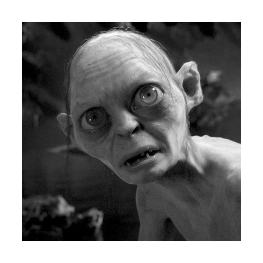
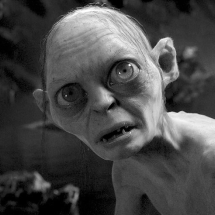
Mise à jours de sections

diff --git a/index.html b/index.html
@@ -48,8 +48,10 @@
             <div id="carouselExampleIndicators" class="carousel slide" data-ride="carousel">
                 <ol class="carousel-indicators">
                     <li data-target="#carouselExampleIndicators" data-slide-to="0" class="active"></li>
-                    <!-- <li data-target="#carouselExampleIndicators" data-slide-to="1"></li>
-                    <li data-target="#carouselExampleIndicators" data-slide-to="2"></li> -->
+                    <!-- 
+                    <li data-target="#carouselExampleIndicators" data-slide-to="1"></li>
+                    <li data-target="#carouselExampleIndicators" data-slide-to="2"></li>
+                    -->
                 </ol>
                 <div class="carousel-inner">
                     <div class="carousel-item active">
@@ -59,7 +61,8 @@
                             <p>Please help him to find his ring -d.v.</p>
                         </div>
                     </div>
-                    <!-- <div class="carousel-item">
+                    <!-- 
+                    <div class="carousel-item">
                         <img class="d-block w-100" src="img/AiMr7BuljIvpPR04Vd9bB3DdspBhySnQ9hUkPE6q.jpg" alt="Second slide">
                         <div class="carousel-caption d-none d-md-block">
                             <h5>Second slide</h5>
@@ -72,7 +75,8 @@
                             <h5>Third slide</h5>
                             <p>Description third slide...</p>
                         </div>
-                    </div> -->
+                    </div>
+                    -->
                 </div>
                 <a class="carousel-control-prev" href="#carouselExampleIndicators" role="button" data-slide="prev">
                     <span class="carousel-control-prev-icon" aria-hidden="true"></span>
@@ -86,6 +90,7 @@
         </div>
     </header>
     <main>
+        <!-- Section Fellows -->
         <div id="fellows" class="py-3">
             <div class="container">
                 <div class="row pb-3">
@@ -138,7 +143,7 @@
                             <img class="card-img-top" src="img/gimli.png" alt="Card image cap">
                             <div class="card-body">
                                 <h5 class="card-title">Gimly</h5>
-                                <p class="card-text"><span class="d-block">Reward</span> <span class="orange">1000</span> golden coins</p>
+                                <p class="card-text"><span class="orange">dead</span></p>
                             </div>
                             <div class="card-footer">
                                 a dwarf, which a beard and an axe...
@@ -148,8 +153,9 @@
                 </div>
             </div>
         </div>
+        <!-- Section Reward  -->
         <div id="reward">
-            <div class="container">
+            <div class="container pb-3">
                 <div class="row py-3">
                     <div class="col clearfix">
                         <article>
@@ -163,7 +169,7 @@
                                     </p>
                                 </div>
                                 <div class="col-12 col-md-3 col-lg-2 order-1 order-md-2 my-3">
-                                    <img class="rounded img-fluid" src="img/pexels-photo-762020.jpeg" alt="picture of Reward section">
+                                    <img class="rounded-circle img-fluid" src="img/coin_sauron.png" alt="picture of Reward section">
                                 </div>
                             </div>
                         </article>
@@ -174,6 +180,7 @@
                 </div>
             </div>
         </div>
+        <!-- Section Hunters -->
         <div id="hunters">
             <div class="container">
                 <div class="row py-3">
@@ -182,7 +189,7 @@
                         <div class="row">
                             <div class="col-12 col-md-6 my-4">
                                 <div class="media">
-                                    <img class="mr-3 rounded" style="width:70px;" src="img/0wu6KXTcPikHOLFOg1OnvEn2FKxXXcNkzkUSTSEr.jpeg" alt="Generic placeholder image">
+                                    <img class="mr-3 rounded" style="width:70px;" src="img/hunter1.png" alt="Generic placeholder image">
                                     <div class="media-body">
                                         <h5 class="my-0 font-weight-bold h6">ElvesKiller22</h5>
                                         <p class="mb-1">2 capture - <a href="">Profile</a></p>
@@ -194,7 +201,7 @@
                             </div>
                             <div class="col-12 col-md-6 my-4">
                                 <div class="media">
-                                    <img class="mr-3 rounded" style="width:70px;" src="img/0wu6KXTcPikHOLFOg1OnvEn2FKxXXcNkzkUSTSEr.jpeg" alt="Generic placeholder image">
+                                    <img class="mr-3 rounded" style="width:70px;" src="img/hunter2.png" alt="Generic placeholder image">
                                     <div class="media-body">
                                         <h5 class="my-0 font-weight-bold h6">Goblin45</h5>
                                         <p class="mb-1">1 capture - <a href="">Profile</a></p>
@@ -209,17 +216,18 @@
                 </div>
             </div>
         </div>
+        <!-- Section Ring -->
         <div id="ring">
             <div class="container">
-                <div class="row my-3">
+                <div class="row py-3">
                     <div class="col">
                         <h2 class="h4 my-3 title">About the ring</h2>
                         <div class="card my-3">
                             <div class="card-header font-weight-bold">Ring capabilities</div>
                             <div class="card-body">
                                 <p class="card-text">What can our master Sauron do with the ring ?</p>
-                                <table class="table table-bordered">
-                                    <thead class="bg-dark text-light">
+                                <table class="table">
+                                    <thead>
                                         <tr>
                                             <th scope="col" class="w-50">Feature</th>
                                             <th scope="col" class="w-50">Description</th>
@@ -245,7 +253,7 @@
                         <div class="card my-3">
                             <div class="card-header font-weight-bold">Why the ring is awesome ?</div>
                             <div class="card-body">
-                                <img style="width:110px;" class="float-right w-25 rounded-circle ml-5" src="img/0wu6KXTcPikHOLFOg1OnvEn2FKxXXcNkzkUSTSEr.jpeg" alt="">
+                                <img class="float-right rounded-circle ml-5" src="img/gollum.png" alt="">
                                 <h5 class="h6 card-title">My preciooooooussssss! Hrk Hrk, we want your preciooooooussssss!!</h5>
                                 <p class="card-text text-right text-muted">Gollum</p>
                             </div>
@@ -254,30 +262,33 @@
                 </div>
             </div>
         </div>
+        <!-- Section Army -->
         <div id="army">
-            <div class="container">
+            <div class="container pb-3">
                 <div class="row py-3">
                     <div class="col">
                         <article>
                             <h2 class="h4 my-3 title">Join Mordor Army, we need you !</h2>
                             <div class="row">
-                                <div class="col-12 col-md-3 col-lg-2 my-3">
-                                    <img class="float-left rounded img-fluid" src="img/pexels-photo-762020.jpeg" alt="picture of Army section">
-                                </div>
-                                <div class="col-12 col-md-9 col-lg-10 my-3">
+                                <div class="col-12 col-md-9 col-lg-8 my-3">
                                     <p class="text-justify">
                                         Lorem ipsum dolor sit, amet consectetur adipisicing elit. Eligendi corrupti harum suscipit a unde accusamus et aliquid voluptate culpa porro totam, atque voluptates doloremque saepe recusandae in iste? Corrupti, voluptates. Lorem ipsum dolor sit amet consectetur adipisicing elit. Ex fuga aliquam atque beatae eveniet aspernatur et voluptatibus voluptate sed vero est, aliquid esse provident nobis exercitationem? Ut dolores sunt iste.
                                     </p>
                                 </div>
+                                <div class="col-12 col-md-3 col-lg-4 my-3">
+                                    <img class="float-left img-fluid" src="img/army.png" alt="picture of Army section">
+                                </div>
                             </div>
                         </article>
                         <form class="text-center">
-                            <button type="button" class="btn btn-primary">More info on SauronRulesThemAll.com</button>
+                            <p class="orange">More info on</p>
+                            <button type="button" class="btn btn-primary">SauronRulesThemAll.com</button>
                         </form>
                     </div>
                 </div>
             </div>
         </div>
+        <!-- Section Contact -->
         <div id="contact">
             <div class="container">
                 <div class="row py-3">
@@ -311,7 +322,7 @@
                     </div>
                 </div>
             </div>
-        </div>
+        </div> 
     </main>
     <footer>
         <div class="container">

diff --git a/css/style.css b/css/style.css
@@ -26,6 +26,21 @@ h1, h2, h2.h4, h3, h4, h5, h6,
 }
 .title:before { margin-right: 9px; }
 .title:after { margin-left: 9px; }
+/* button */
+.btn.btn-primary {
+    background-color: #202022;
+    color: #fe661d;
+    border: none;
+    -webkit-border-radius: 0;
+    -moz-border-radius: 0;
+    -ms-border-radius: 0;
+    border-radius: 0;
+    box-shadow: 0px 3px 3px #202022;
+}
+#reward .btn.btn-primary, #contact .btn.btn-primary {
+    background-color: #fff;
+    box-shadow: 3px 3px 3px #444;
+}
 /* HEADER */
 .navbar-brand img { width: 210px; }
 .navbar-light .navbar-nav .nav-link { 
@@ -65,11 +80,8 @@ h1, h2, h2.h4, h3, h4, h5, h6,
 #fellows .card {
     border: 3px solid #000;
     background-color: #000;
-}
-#fellows .card {
     text-align: center;
     cursor: pointer;
-    border: 3px solid #000;
 }
 #fellows .card-body {
     position: absolute;
@@ -81,27 +93,27 @@ h1, h2, h2.h4, h3, h4, h5, h6,
     width: 90%;
     padding: .5em;
     bottom:1em;
+    font-size: 2em;
     line-height: 1.2;
     background-color: #fff;
     -webkit-border-radius: 3px;
     -moz-border-radius: 3px;
     border-radius: 3px;
-    opacity: .81;
+    opacity: .8;
 }
-#fellows .card h5 {
-    font-size: 1.5em;
-    transition: all ease .5s;
+#fellows .card img { opacity: .5; }
+#fellows .card h5 { 
+    font-size: 2.5em;
+    font-family: 'Party Business';
+    top: 5.2em;
 }
-#fellows .card img {
-    opacity: .5;
-    transition: all ease .5s;
+#fellows .card.dead:hover img { opacity: .5; }
+#fellows .card.dead:hover h5 { top: 5.2em; }
+#fellows .card.dead p {
+    background-color: transparent;
+    font-size: 2.5em;
 }
-#fellows .card p { 
-    font-size: 2em;
-}
-#fellows .card p span.orange { color: #fe661d; }
-#fellows .card h5, #fellows .card.dead:hover h5 { top: 8em; }
-#fellows .card.dead .card-text { display: none; }
+#fellows .card.dead:hover p { z-index: 1; }
 #fellows .card.dead h5, #fellows .card.dead:hover h5 {
     color: #fff;
     -webkit-text-decoration-line: line-through;
@@ -112,29 +124,47 @@ h1, h2, h2.h4, h3, h4, h5, h6,
     -moz-text-decoration-color: #fe661d;
     -ms-text-decoration-color: #fe661d;
     text-decoration-color: #fe661d;
-    font-size: 1.5em;
+    font-size: 2.5em;
 }
-#fellows .card.dead:hover img { opacity: .5; }
 #fellows .card-footer {
     background-color: #000;
     -webkit-border-radius: 0;
     -moz-border-radius: 0;
     border-radius: 0;
+    font-size: 1.6em;
 }
-/* Section REWARD */
-
+/* Section RING */
+#ring .card { 
+    border-top: 0;
+    border-right: 0;
+    border-bottom: 3px solid #fe661d;
+    border-left: 0;
+    -webkit-border-radius: .25em;
+    -webkit-border-bottom-right-radius: 0;
+    -webkit-border-bottom-left-radius: 0;
+    -moz-border-radius: .25em;
+    -moz-border-radius-bottomright: 0;
+    -moz-border-radius-bottomleft: 0;
+    border-radius: .25em;
+    border-bottom-right-radius: 0;
+    border-bottom-left-radius: 0;
+}
+#ring .table th { border-top: 0; }
+#ring .card-text, #ring .card-title { font-size: 1.6em; }
 /* CONTACT */
 
 /* FOOTER */
 
 /* White text */
-#fellows .card h5, #fellows .card-footer, #reward, #contact h2 { color: #fff; }
+#fellows .card h5, #fellows .card-footer, #reward, #ring .title, #ring .card-header, #contact h2 { color: #fff; }
+/* Orange text */
+.orange { color: #fe661d; }
 /* Orange background */
-header .navbar, footer { background-color: #fe661d; }
+header .navbar, #ring .card-header, footer { background-color: #fe661d; }
 /* Dark bacground */
-#reward, #contact { background: url('../img/bg_dark.png'); }
+#reward,#ring, #contact { background: url('../img/bg_dark.png'); }
 /* Light background */
-#fellows, #hunters { background: url('../img/bg_light.png'); }
+#fellows, #hunters, #army { background: url('../img/bg_light.png'); }
 
 /* // Extra small devices (portrait phones, less than 576px) */
 @media (max-width: 575.98px) {
@@ -145,16 +175,22 @@ header .navbar, footer { background-color: #fe661d; }
     
 }
 /* // Medium devices (tablets, 768px and up) */
-@media (min-width: 768px) and (max-width: 991.98px) { 
-
+@media (min-width: 768px) and (max-width: 991.98px) {
+    .carousel-caption { top: 18%; }
+    .carousel-inner h5 { line-height: 1; } 
+    #fellows .card p { 
+        font-size: 1.5em;
+        bottom: 2em;
+    }
+    #fellows .card h5, #fellows .card.dead:hover h5 { top: 3.5em; }
 }
 /* // Large devices (desktops, 992px and up) */
 @media (min-width: 992px) {
-        #fellows .card:hover img { opacity: 1;} 
+    #fellows .card h5, #fellows .card img { transition: all ease .5s; }
+    #fellows .card:hover img { opacity: 1; } 
     #fellows .card:hover h5 { 
-        top: 15em;
-        font-size: 1.2em;
-        /* color: #000; */
+        top: 8em;
+        font-size: 2em;
     }
     #fellows .card:hover p { z-index: -1; }
 }
